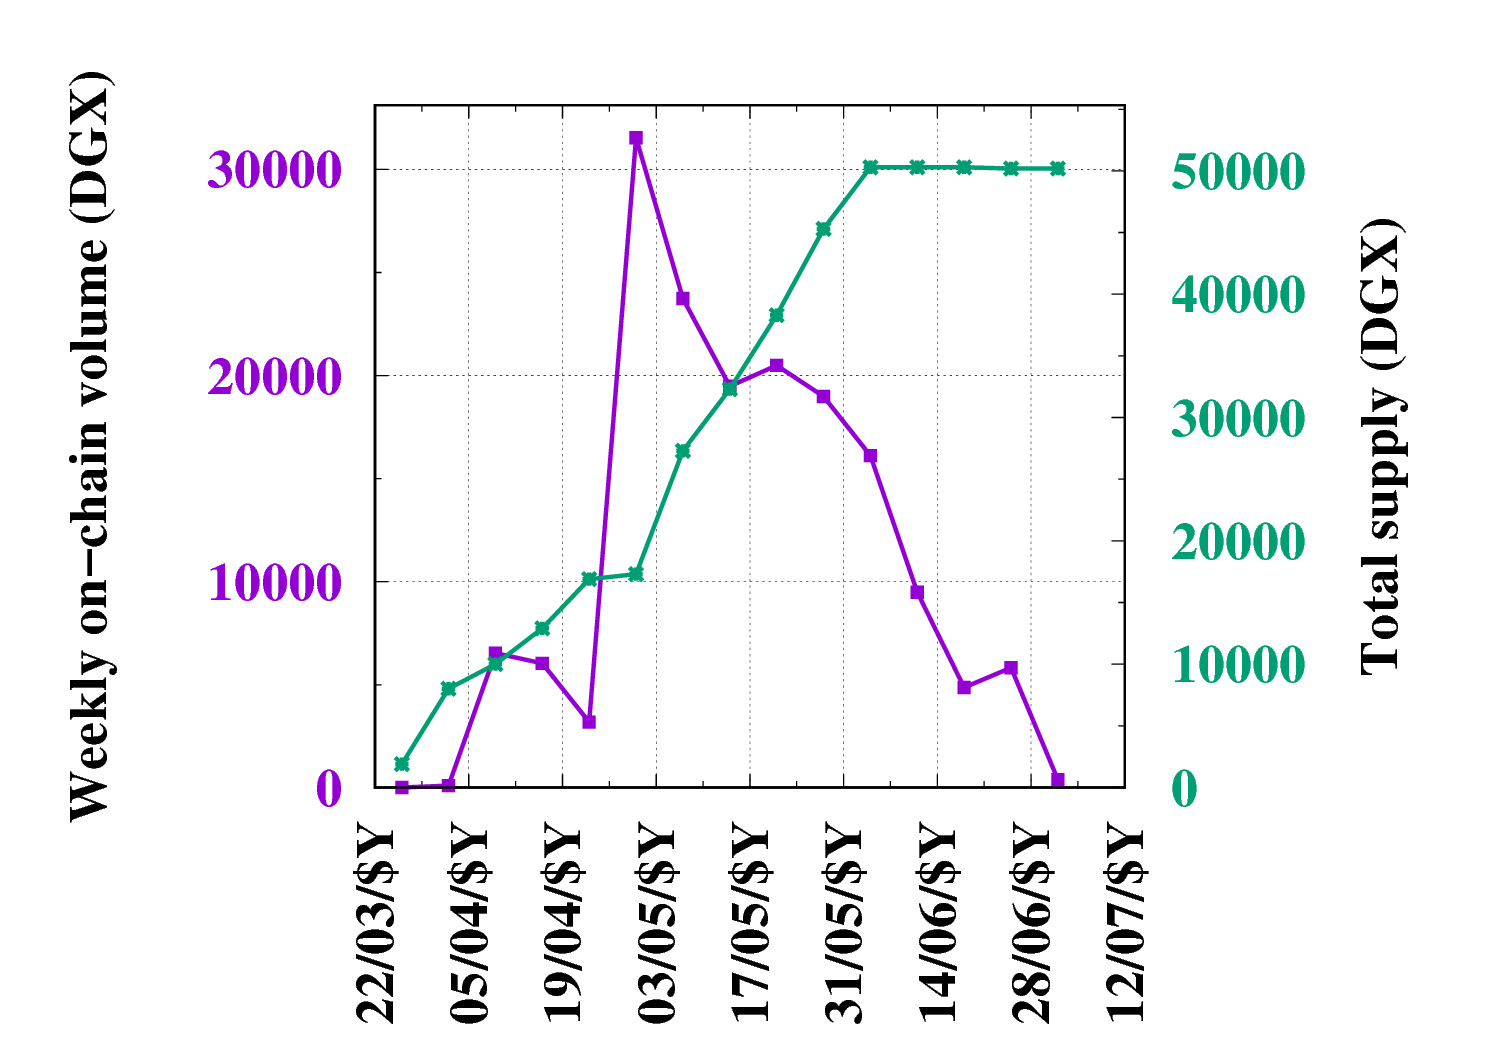
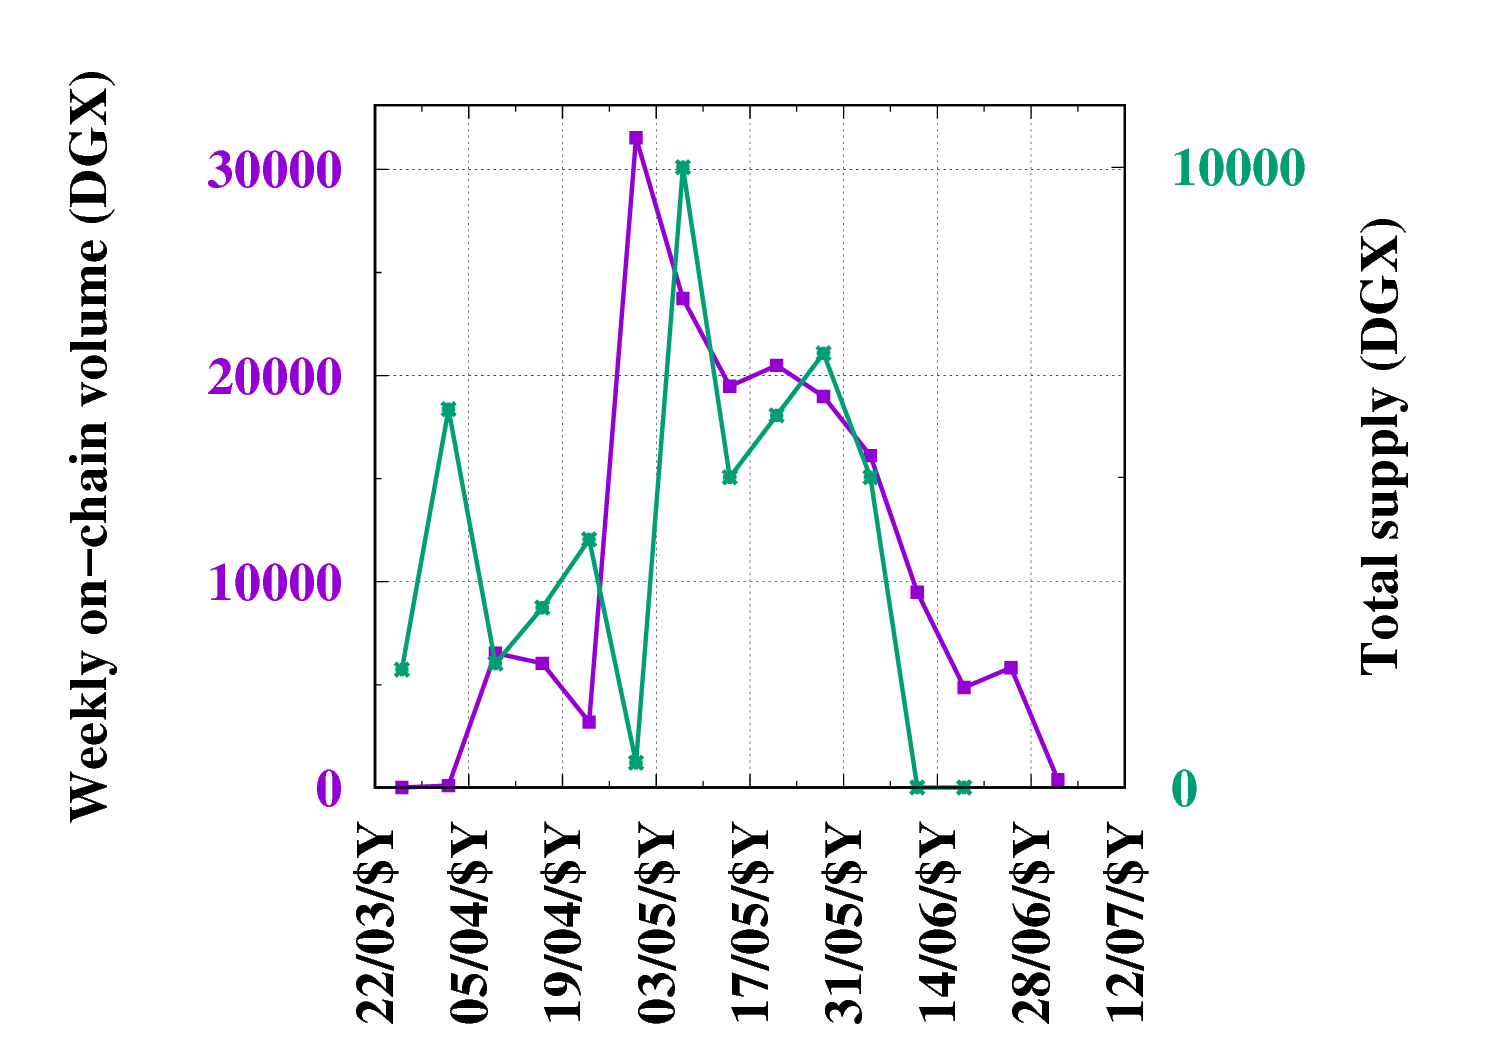
.

diff --git a/dgxvolume_scripts/weekly_volume.py b/dgxvolume_scripts/weekly_volume.py
@@ -48,12 +48,10 @@ with open('quarterly.dat','w+') as f2:
     for i in range(istart,length):
       x = int(amount[i]['value'])  # volume for ith tx
       if amount[i]['from'] == '0x0000000000000000000000000000000000000000':  # if from 0x0 (minting)
-        y = round(float(x)/1e9,2)
-        mintv = mintv + y  # DGX minted 
+        mintv = mintv + x  # DGX minted 
       elif amount[i]['to'] == '0x0000000000000000000000000000000000000000':  # if to 0x0 (recasting)
         wv = wv - x  # these are recasting txs
-        y = round(float(x)/1e9,2)
-        mintv = mintv - y  
+        mintv = mintv - x  
         ts = amount[i]['timeStamp']  # read current timeStamp (s)
         tc = int(ts) - int(t0)  # time (s) since first tx
         t1 = tc - tstore1  # time (s) since last reset
@@ -67,6 +65,7 @@ with open('quarterly.dat','w+') as f2:
         cw += 1 # count
         y = round(float(wv)/1e9,2)
         print(str(datew.strftime("%d/%m/%Y")) + "|" + str(y))
+        mintv = round(float(mintv)/1e9,2)
         f.write(str(datew) + ' ' + str(y) + ' ' + str(mintv) + '\n')  # write week number, volume to file
         datew = datew + datetime.timedelta(days=7)
         tstore1 = tc
